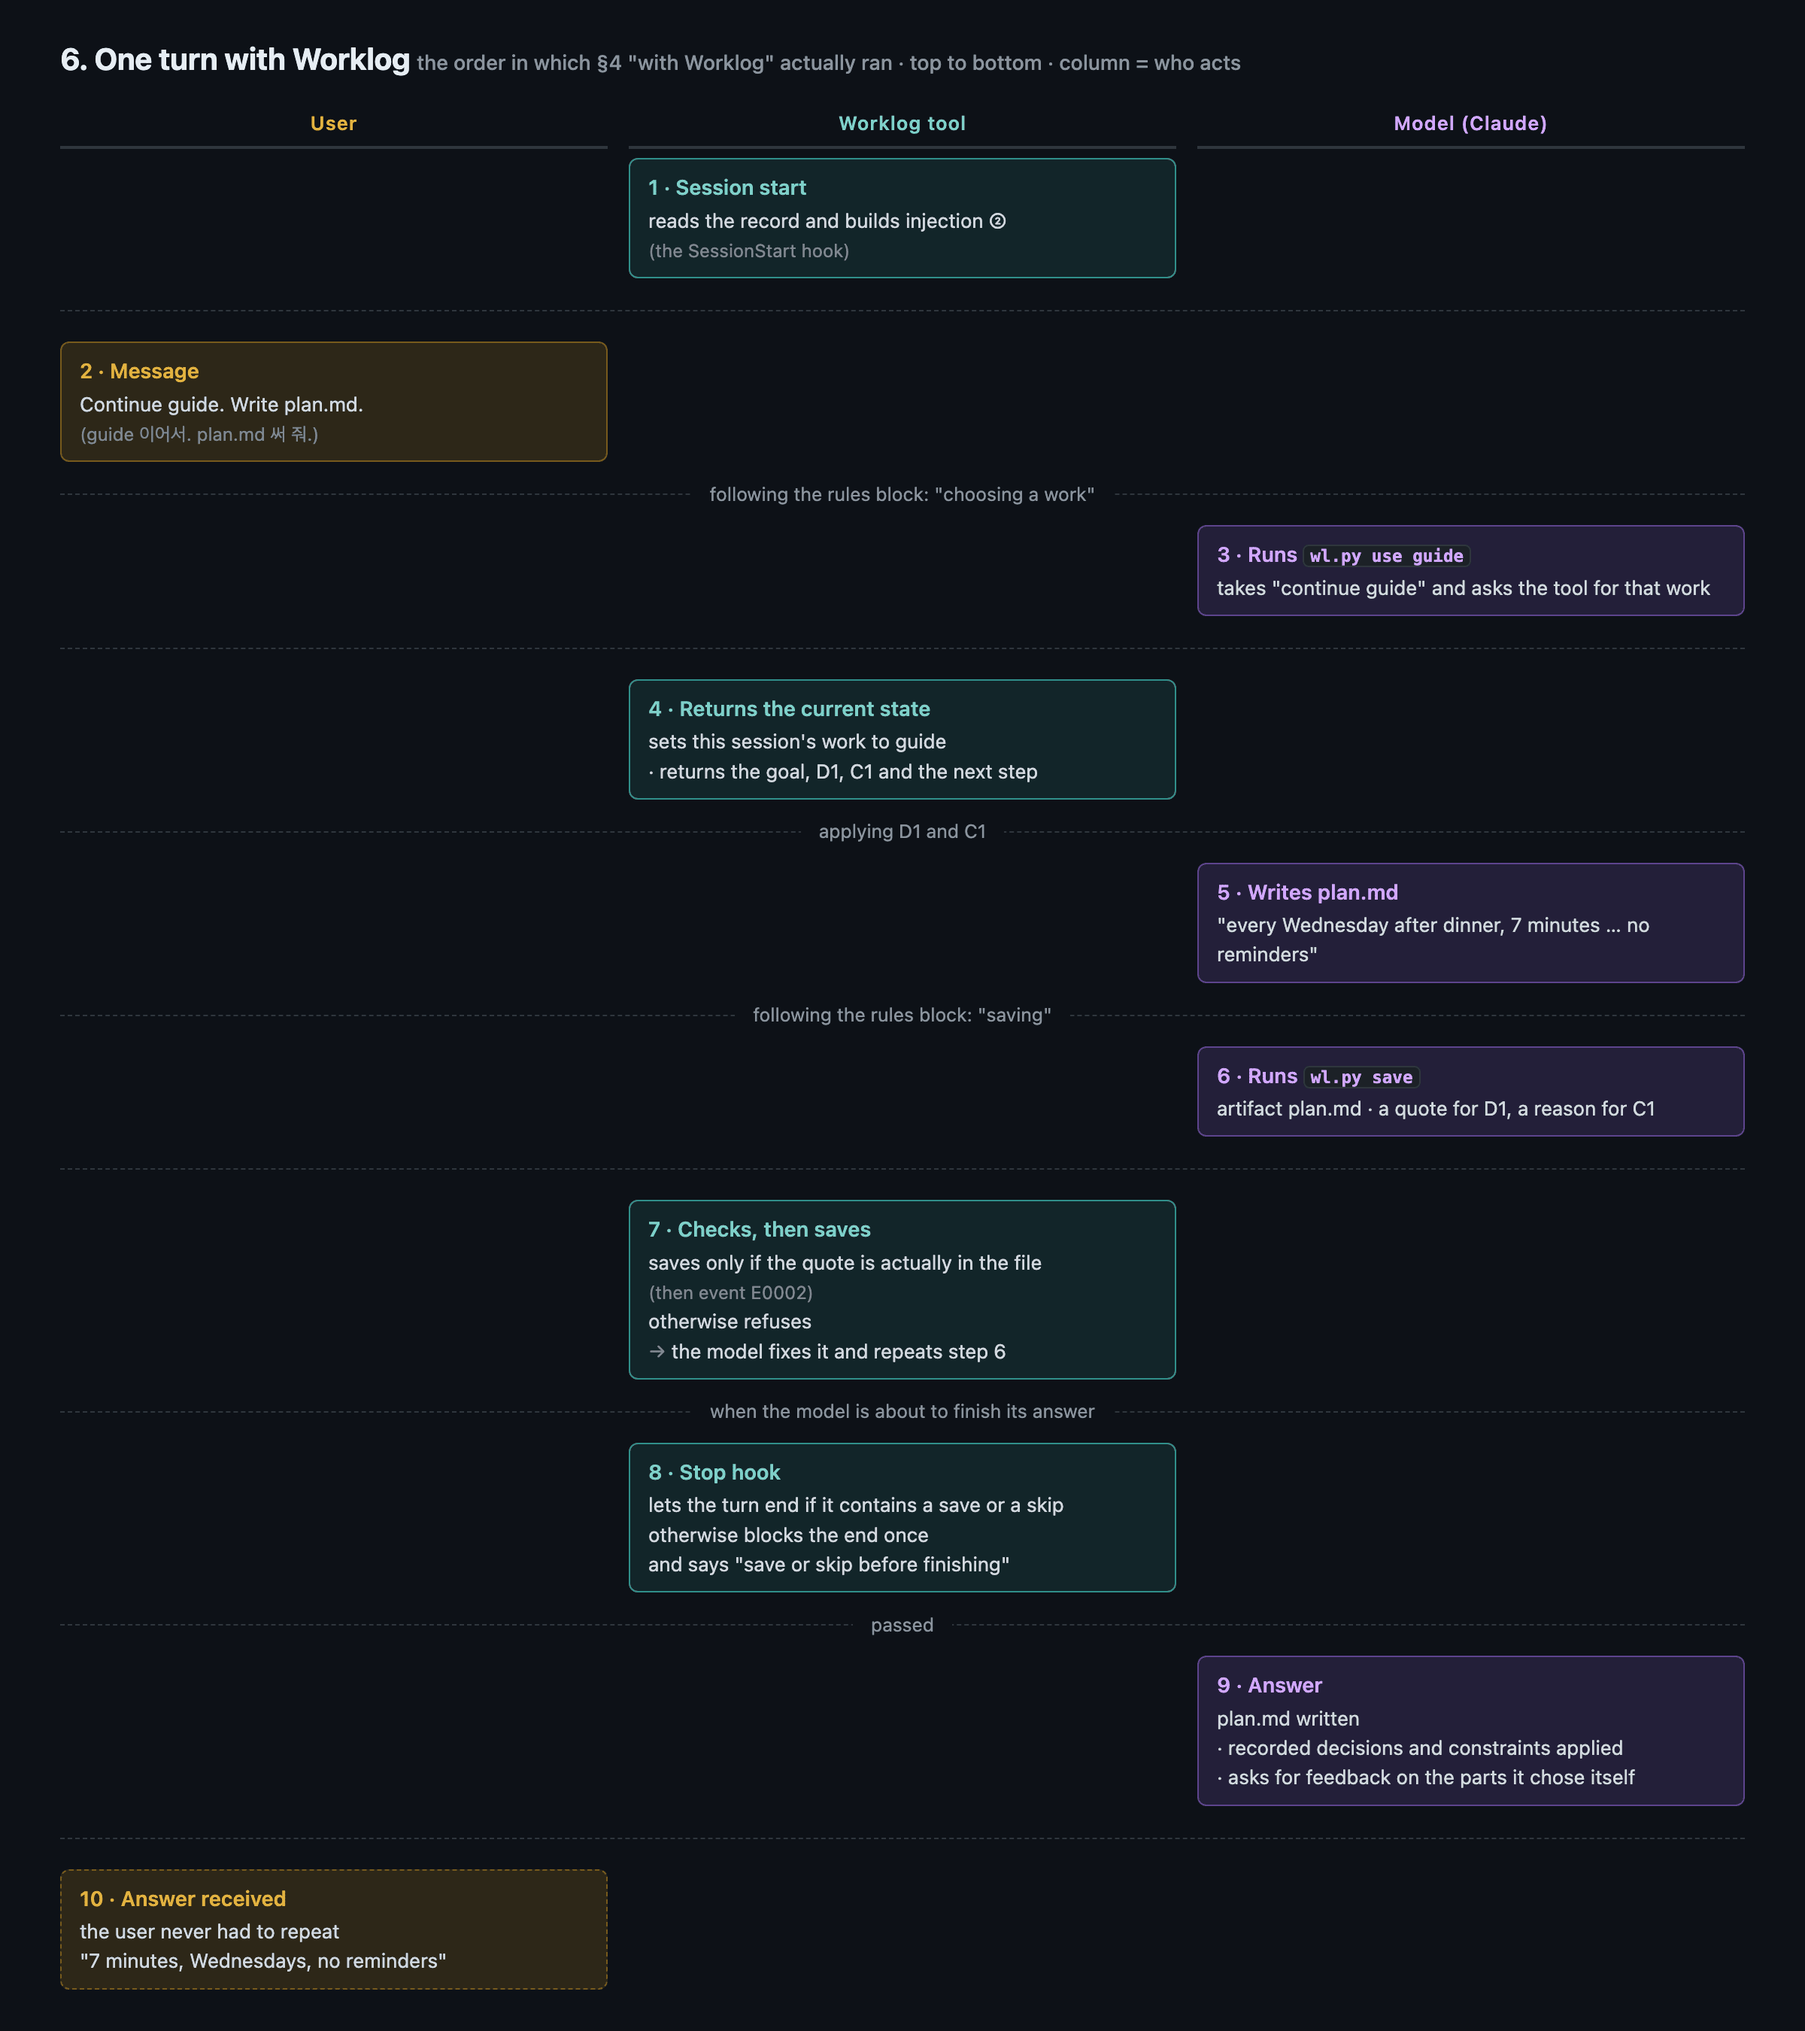
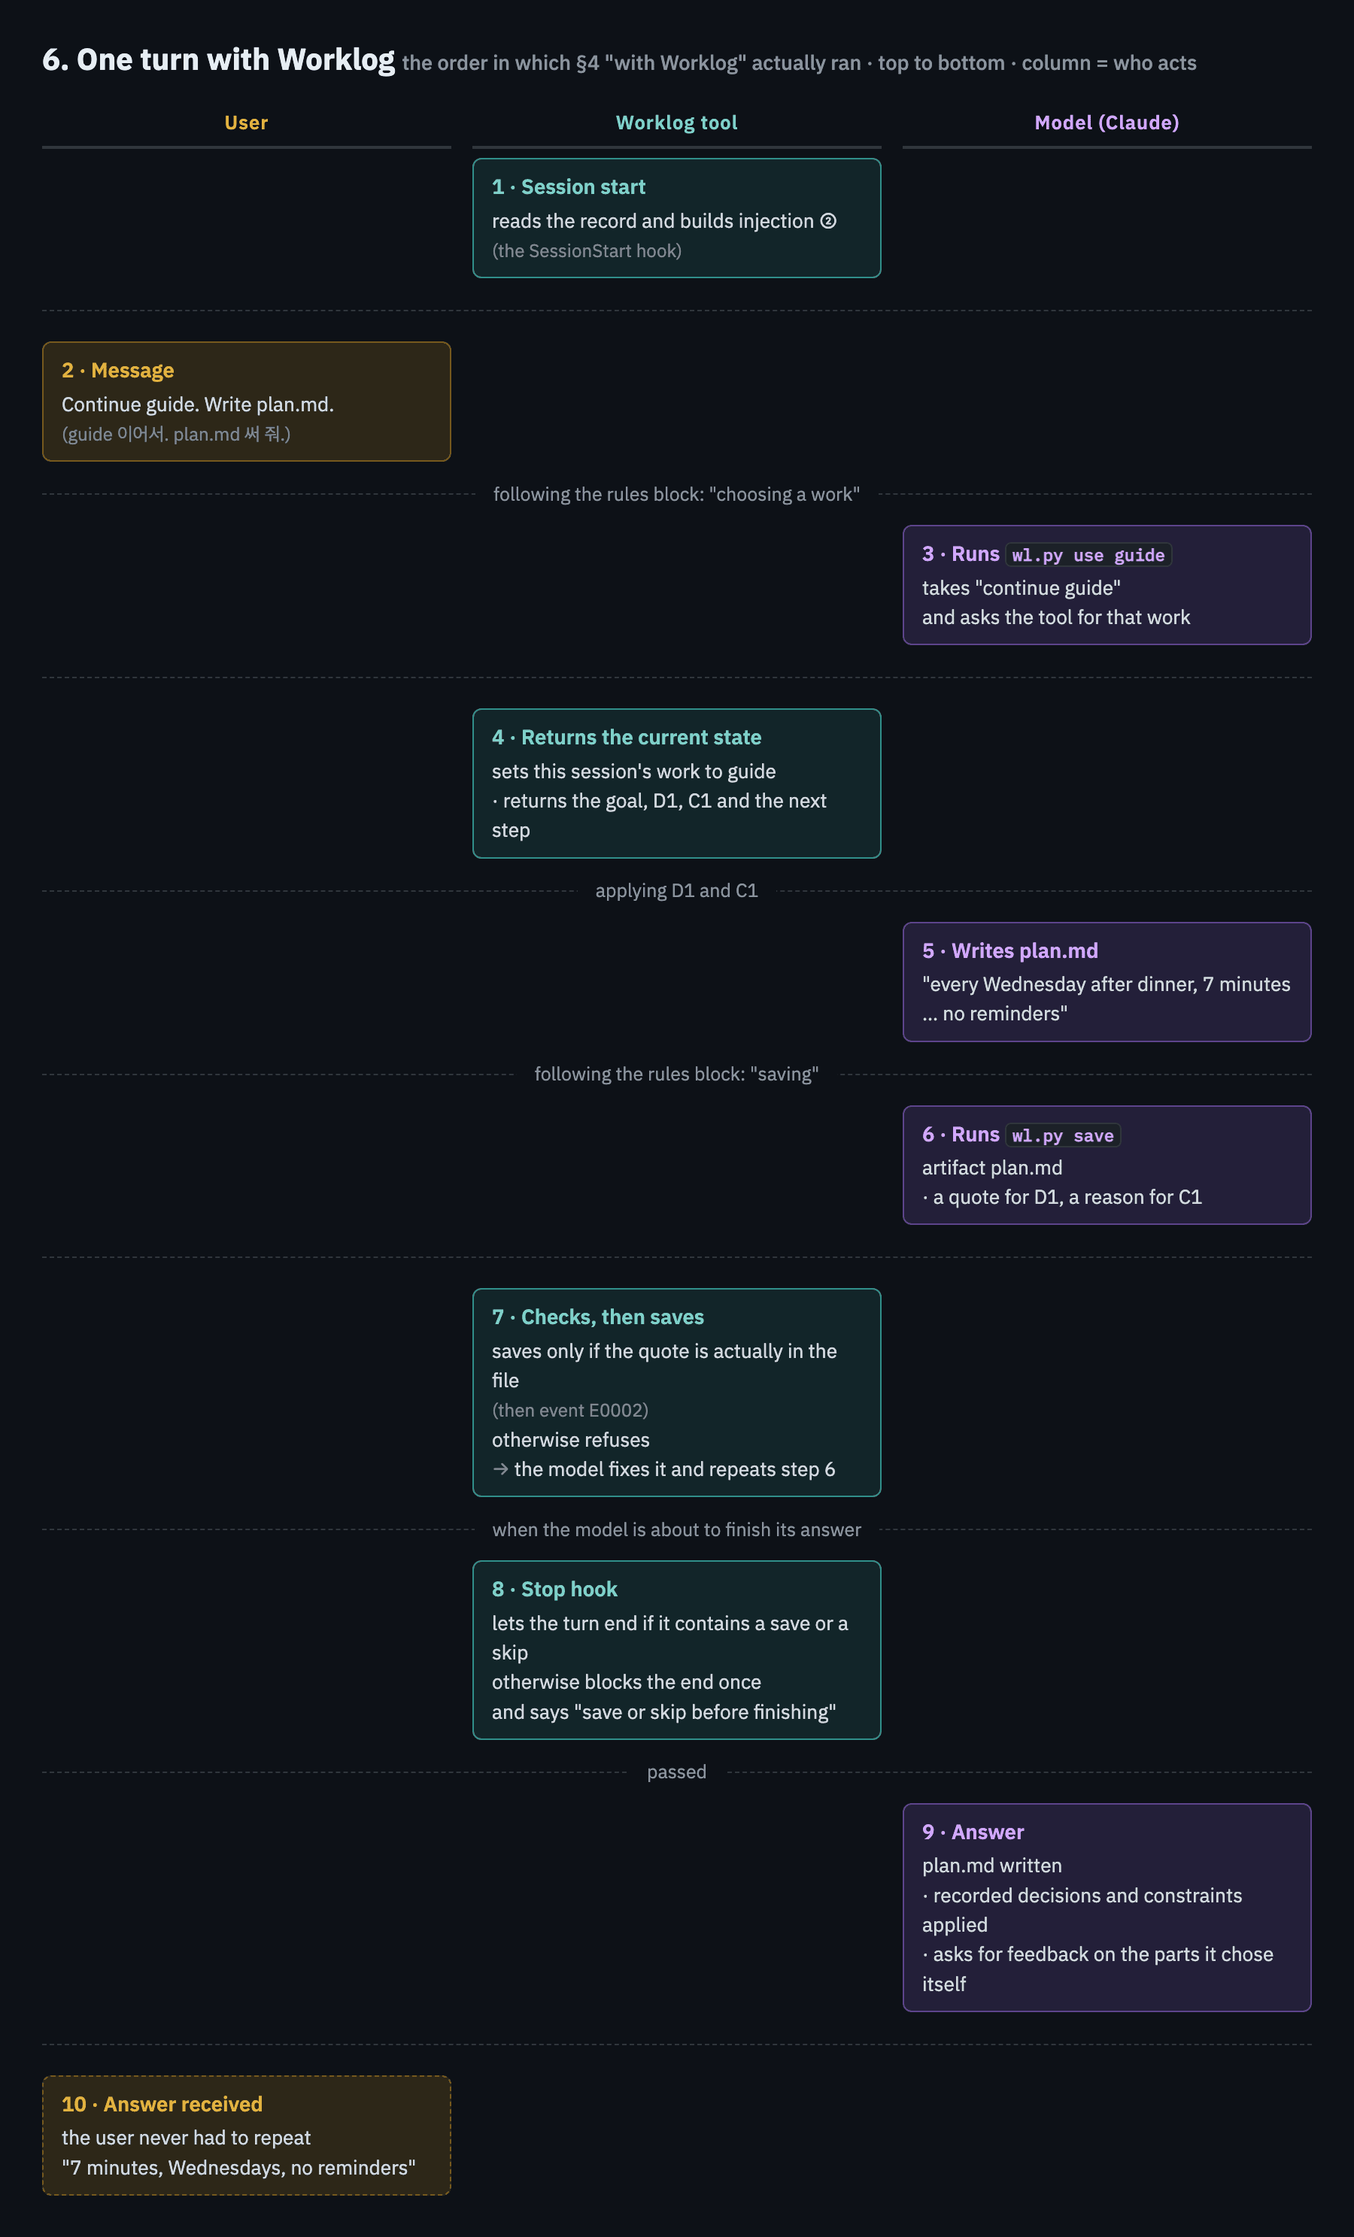
docs: README = the seven page sections as figures + copy-only text; AGENT.md points to the figures' text source
Both READMEs now carry all seven sections of docs/figures.{ko,en}.html as PNGs
(900px wide, so they render near 1:1 on GitHub; §4 stacks before/after
vertically) and keep as text only what must be copied (phrases, the install /
version / uninstall commands) or what the page does not say (requirements,
update details, delegation, .gitignore, tamper note, links). AGENT.md tells an
agent that the figures' text lives in docs/figures.*.html.

diff --git a/README.md b/README.md
@@ -4,15 +4,17 @@
 
 **Keeps Claude Code and Codex from forgetting what was decided, even after a compaction or a new session.** Ask the AI to install it; after that you only name the work you want to continue.
 
-The phrases you type are Korean (the model-facing rules and messages are Korean too). They are short; copy them from this page.
+![1. What gets recorded, and where](docs/img/en-01-units.png)
 
-## How to use it
+In a git project `.worklog/` is added to `.gitignore` (the record is per-machine state and quotes you, so it stays out of git). Also added to the project: one rules block in `CLAUDE.md` or `AGENTS.md` (your own content is kept), 3 hooks, `skills/worklog/` (Claude: `.claude/`, Codex: `.agents/`).
 
-### Install — ask the AI
+The phrases you type are Korean, and so are the model-facing rules and messages. They are short; copy them from here.
 
-Say to the AI: `Clone https://github.com/BUGGIEEEEE/worklog and install Worklog in this project`
+![2. How to use it](docs/img/en-02-usage.png)
 
-The agent first asks which tools to install for (Claude Code, Codex, or both), then runs the commands below. Clone once; connect (install) once per project and tool. You can also run them yourself.
+Phrases to copy: `새 작업: <title>` (new work) · `<id> 이어서` (continue) · `<id>에서 정한 <thing>을 참고해 줘` (use what was decided in another work) · `워크로그 꺼` / `워크로그 켜` (off / on) · `Worklog 업데이트해 줘` (update) · `현재 작업 상태 보여 줘` (show the current work state) · `Worklog 제거해 줘` (remove)
+
+Install — the commands the AI runs (you can run them yourself; clone once, install once per project and tool):
 
 ```sh
 git clone https://github.com/BUGGIEEEEE/worklog.git
@@ -20,81 +22,35 @@ python3 -B worklog/tools/install_project.py --tool claude --root /path/to/projec
 python3 -B worklog/tools/install_project.py --tool codex  --root /path/to/project
 ```
 
-Only you can do: Codex — in the first session, trust the project, then run `/hooks` and trust the three hooks it lists. Claude Code — accept the folder-trust dialog if the project is a git repository.
-
 Check the install — it prints the core version (see `CHANGELOG.md`):
 
 ```sh
 python3 -B worklog/core/wl.py version
 ```
 
-Requirements: Python 3.9+ (tested on 3.9.6 and 3.14), macOS or Linux. Keep the clone where it is (the hooks call it by path). The installer writes only inside the project, backs up every file it changes, and lists the project in `~/.worklog/installs.json` (used by the uninstaller).
+Remove — the agent asks which tool to remove and, only when the last tool goes, whether to keep the records. Example (`--delete-records` removes the records too; `--tool codex` removes one tool only):
 
-### What you say while working
-
-| When | You say | Then |
-|---|---|---|
-| First session | `새 작업: 종이 노트 습관 계획 guide` — "new work: paper-notebook habit plan guide" | The work `guide` is created. The id is built from the Latin letters and digits in the title (none → `work`) |
-| Next session | `guide 이어서. plan.md 써 줘.` — "continue guide. write plan.md" | The record is loaded and the work picks up where it left off |
-| Refer to another work | `guide에서 정한 시간 배분을 참고해 줘` — "use the time split decided in guide" | The model reads guide's record. Only what you asked for is brought over |
-| Delegating | Just tell the agent to delegate. If you open a separate session yourself, start its first prompt with `<id> 이어서. 하위 작업: <name>` ("continue <id>. subtask: <name>"); for an independent work that finishes on its own, use `새 작업: <title>` and list which decisions and constraints it inherits | The agent keeps the record as the rules say |
-| Several works | — | At session start the model lists them and asks which one to continue |
-| Saving | — | The model saves every turn (a read-only turn records a skip). Nothing for you to do |
-
-### Now and then
-
-| When | You say |
-|---|---|
-| Pause | `워크로그 꺼` ("worklog off", whole project). `워크로그 켜` resumes. Nothing is recorded while off |
-| Update | A newer version is announced in one line at session start (a git clone checks the origin tags in the background once a day). Say `Worklog 업데이트해 줘` ("update Worklog") → `python3 -B worklog/core/wl.py update` fast-forwards to the newest tag of the same major version and reinstalls the current project. `update rollback` undoes it, `update --mode off` silences the notice |
-| Current state | Say `현재 작업 상태 보여 줘` ("show the current work state"), or open `.worklog/works/<id>/state.md` |
-| Remove | Say `Worklog 제거해 줘` ("remove Worklog"). The agent asks which tool to remove and, only when the last tool goes, whether to keep the records in `.worklog/`. Example: `python3 -B worklog/tools/uninstall_project.py --root /path/to/project --tool all --keep-records` (`--delete-records` removes the records too; `--tool codex` removes one tool only). It reverts the rules block, the three hooks, the skill and the `.gitignore` line, backing up what it changes. Full removal and all options: [AGENT.md](AGENT.md) |
-
-## Unit of record
-
-```
-project/
-└── .worklog/                  one per project
-    └── works/                 one folder per work — decisions and constraints never mix between works
-        ├── guide/
-        │   ├── events.jsonl   history: every decision and result, in order, append-only
-        │   └── state.md       current state: the goal, decisions, constraints and next step in force now
-        └── report/
+```sh
+python3 -B worklog/tools/uninstall_project.py --root /path/to/project --tool all --keep-records
 ```
 
-- Every save appends one line to the history; the current state is recomputed from it. When a value changes, the old decision stays in the history and only the newest is in the current state.
-- Claude Code and Codex share the same `.worklog/`. In a git project `.worklog/` is added to `.gitignore` (the record is per-machine state and quotes you, so it stays out of git).
-- What appears in your project: one rules block in `CLAUDE.md` or `AGENTS.md` (your own content is kept), 3 hooks, `skills/worklog/` (Claude: `.claude/`, Codex: `.agents/`), one `.gitignore` line.
+- Requirements: Python 3.9+ (tested on 3.9.6 and 3.14), macOS or Linux. Keep the clone where it is (the hooks call it by path). The installer writes only inside the project, backs up every file it changes, and lists the project in `~/.worklog/installs.json` (used by the uninstaller).
+- Update: a git clone checks the origin tags in the background once a day (session start, never waits) and the next session shows one line when a newer version exists. `wl.py update` fast-forwards to the newest tag of the same major version and reinstalls the current project; `update rollback` undoes it, `update --mode off` silences the notice.
+- Delegating: just tell the agent to delegate. If you open a separate session yourself, start its first prompt with `<id> 이어서. 하위 작업: <name>` ("continue <id>. subtask: <name>"); for an independent work that finishes on its own, use `새 작업: <title>` and list which decisions and constraints it inherits. The agent keeps the record as the rules say.
+- Full removal (every project plus `~/.worklog`) and all uninstall options: [AGENT.md](AGENT.md).
 
-## How it works (figures)
+![3. The example](docs/img/en-03-example.png)
 
-Decisions and constraints set in session 1 still apply in a new session, and after a long conversation has been compacted several times.
+![4. What the model receives on the first turn of session 2 — without / with Worklog](docs/img/en-04-context.png)
 
-![Example: what was set in session 1 holds in session 2 and after compaction](docs/img/en-03-example.png)
+![5. Inside the injected record summary](docs/img/en-05-injection.png)
 
-Worklog adds only two layers to the model's input: the rules block (always the same) and a record summary attached at session start. The user message is unchanged. Numbers are from one run each, Claude opus, 2026-10-15.
+![6. One turn with Worklog](docs/img/en-06-flow.png)
 
-![What the model receives on the first turn of session 2, without and with Worklog](docs/img/en-04-context.png)
+![7. Good to know](docs/img/en-07-notes.png)
 
-The actual text of the record summary, and what the model takes from each line.
-
-![Inside the injected record summary](docs/img/en-05-injection.png)
-
-The order in which one turn actually runs: what the user, the Worklog tool and the model each do.
-
-![One turn with Worklog](docs/img/en-06-flow.png)
-
-## Good to know
-
-- **Claude Code and Codex work the same way.** In both, the model input gets the rules block and the record summary in the same way, and both read and write the same `.worklog/` of a project. Only the settings file names differ. Pi support is planned (untested today). The model-facing rules and messages are Korean.
-
-  | | File holding the rules block | Hook settings |
-  |---|---|---|
-  | Claude Code | `CLAUDE.md` | `.claude/settings.local.json` |
-  | Codex | `AGENTS.md` | `.codex/hooks.json` |
-
-- **If another window changed the same work**: the record summary arrives once, at session start, so another session may save in the meantime. When this session saves, the tool refuses with "the record has changed" and the model re-reads the record and saves again. Nothing for you to do.
-- Situations where the record and reality can drift — `/rewind`, git worktrees, a deleted artifact — are reported by the tool as warnings. Details: [docs/ADAPTERS.md](docs/ADAPTERS.md) (Korean).
 - The record detects accidental edits, not deliberate tampering.
+- Situations where the record and reality can drift (`/rewind`, git worktrees, a deleted artifact) are reported by the tool as warnings. Details: [docs/ADAPTERS.md](docs/ADAPTERS.md) (Korean).
+- Text source of the figures: [docs/figures.en.html](docs/figures.en.html).
 
 Details: [docs/ADAPTERS.md](docs/ADAPTERS.md) · [docs/FORMAT.md](docs/FORMAT.md) · [docs/VERIFICATION.md](docs/VERIFICATION.md) · MIT ([LICENSE](LICENSE))

diff --git a/AGENT.md b/AGENT.md
@@ -4,7 +4,7 @@ You are reading this because a user gave you this repository and asked you to in
 
 ## What to tell the user
 
-Human-facing explanations live in [README.md](README.md) (English) and [README.ko.md](README.ko.md) (Korean): purpose, how it works (figures), what changes in their project, the trust steps, pausing, update and removal. Point the user there or repeat it in their language. Two things to always say: the model-facing rules and CLI messages are Korean, and the first session starts with `새 작업: <title>` (the work id is built from the Latin letters and digits in the title; none → `work`).
+Human-facing explanations live in [README.md](README.md) (English) and [README.ko.md](README.ko.md) (Korean): purpose, how it works, what changes in their project, the trust steps, pausing, update and removal. Most of each README is figures (PNG); the same content as text, section by section, is in [docs/figures.en.html](docs/figures.en.html) and [docs/figures.ko.html](docs/figures.ko.html) — read those when you need to quote or explain it. Point the user to the README or repeat it in their language. Two things to always say: the model-facing rules and CLI messages are Korean, and the first session starts with `새 작업: <title>` (the work id is built from the Latin letters and digits in the title; none → `work`).
 
 ## Install
 
